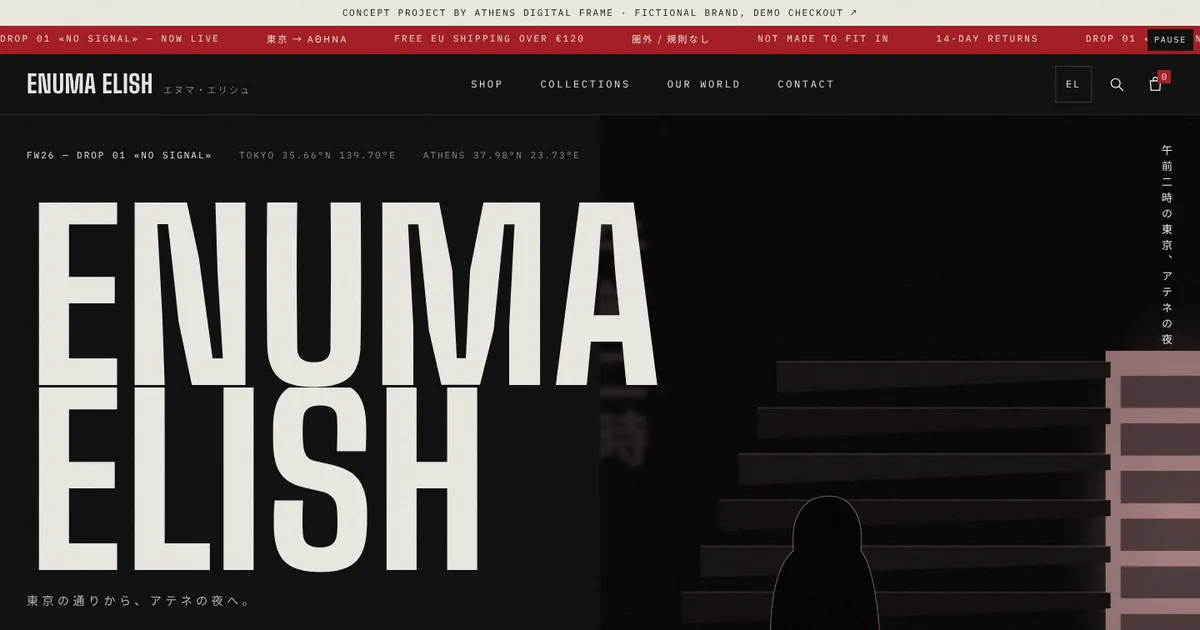
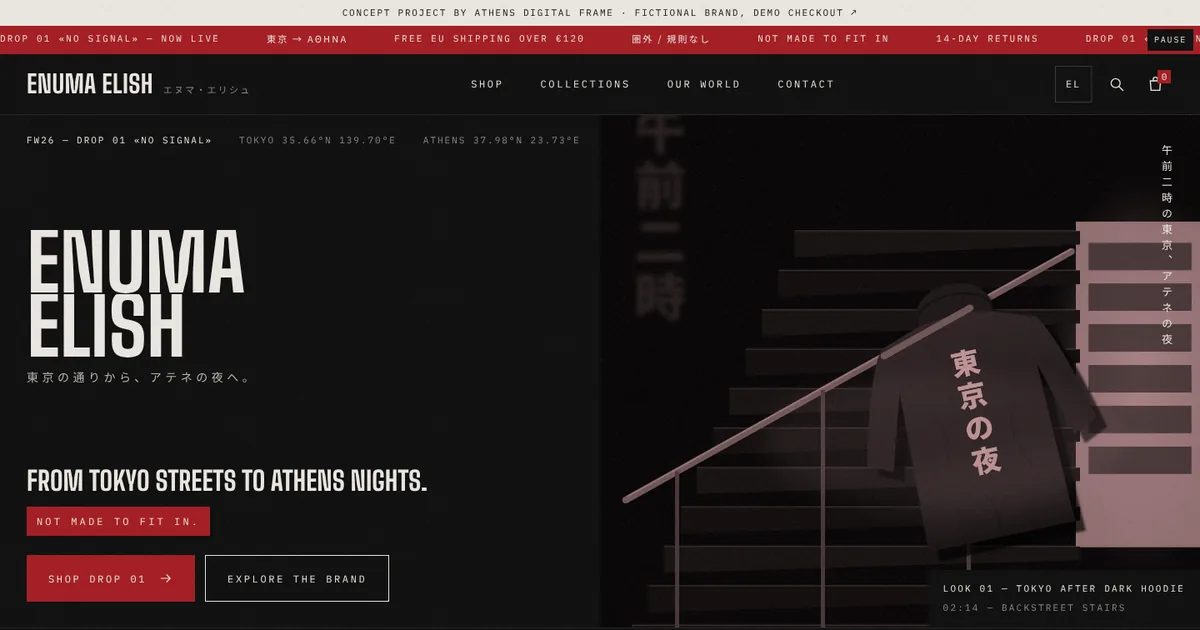
ENUMA hero: hoodie on the handrail, whole hero fits the first screen
The seated silhouette is replaced by the Tokyo After Dark Hoodie hung over a
stair rail (matches the LOOK 01 caption). The hero title now scales with the
viewport height as well as width, so title, tagline, badge and buttons are
visible on load from 375x667 phones to 1920x1080 desktops.

Claude-Session: https://claude.ai/code/session_0146u7BHBs6wRtDsbGD3dXUU

diff --git a/enuma/css/style.css b/enuma/css/style.css
@@ -693,3 +693,25 @@ h1, h2, h3, h4 { font-weight: 900; overflow-wrap: break-word; }
 .lang { height: 44px; min-width: 44px; display: flex; align-items: center; justify-content: center; font-size: 12px; letter-spacing: .16em; text-decoration: none; border: 1px solid var(--line-3); margin-right: 6px; }
 .lang:hover { border-color: var(--c-white); color: var(--c-white); }
 .notice__box h2 { font-family: 'Big Shoulders Display', 'Fira Sans Extra Condensed', Impact, sans-serif; }
+
+/* hero fits the first screen: the title scales with the viewport height too
+   (chrome above it = concept bar + ticker + header, about 140px) */
+@media (min-width: 901px) {
+  .hero { min-height: calc(100svh - 140px); }
+  .hero__ph { min-height: 0; }
+  .hero__img { height: 100%; object-position: 50% 40%; }
+  .hero__tx { gap: clamp(14px, 3vh, 40px); padding-top: clamp(18px, 3vh, 36px); padding-bottom: clamp(22px, 4vh, 48px); }
+  .hero__title { font-size: clamp(84px, min(19.5vw, calc((100svh - 600px) * .62)), 300px); }
+  .hero__jp { margin-top: clamp(8px, 1.6vh, 20px); }
+  .hero__bottom { gap: clamp(12px, 2vh, 22px); }
+  .hero__tagline { font-size: clamp(26px, min(3.1vw, 4.2vh), 46px); }
+}
+@media (max-width: 900px) {
+  .hero, .hero__ph { min-height: calc(100svh - 120px); }
+  .hero__title { font-size: min(31vw, 14svh); }
+  .hero__tx { gap: clamp(14px, 3svh, 28px); padding-top: 20px; padding-bottom: 24px; }
+  .hero__jp { margin-top: 12px; }
+  .hero__bottom { gap: clamp(12px, 2.2svh, 24px); }
+  .hero__tagline { font-size: min(30px, 4.4svh); }
+}
+@media (max-width: 560px) { .hero__meta span:not(:first-child) { display: none; } }
